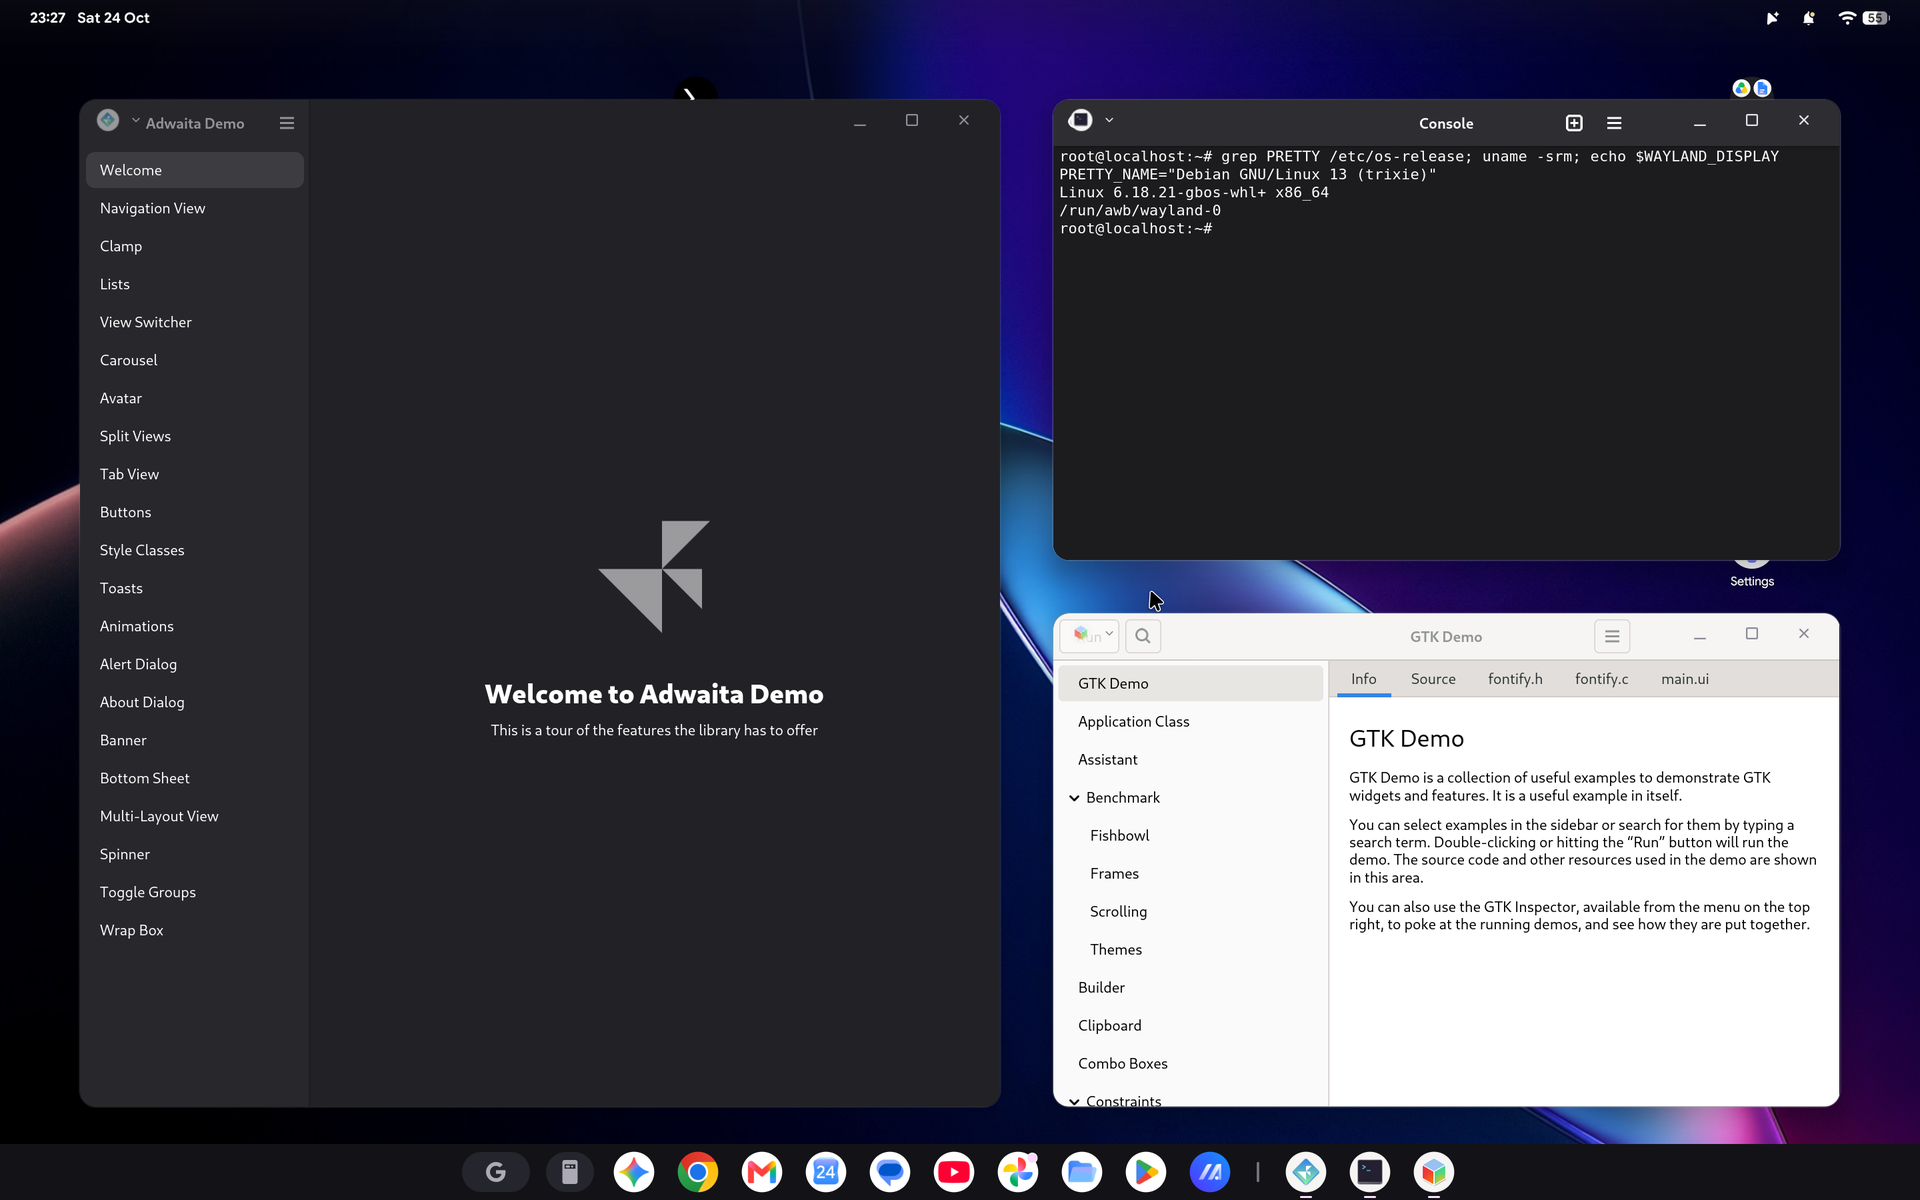
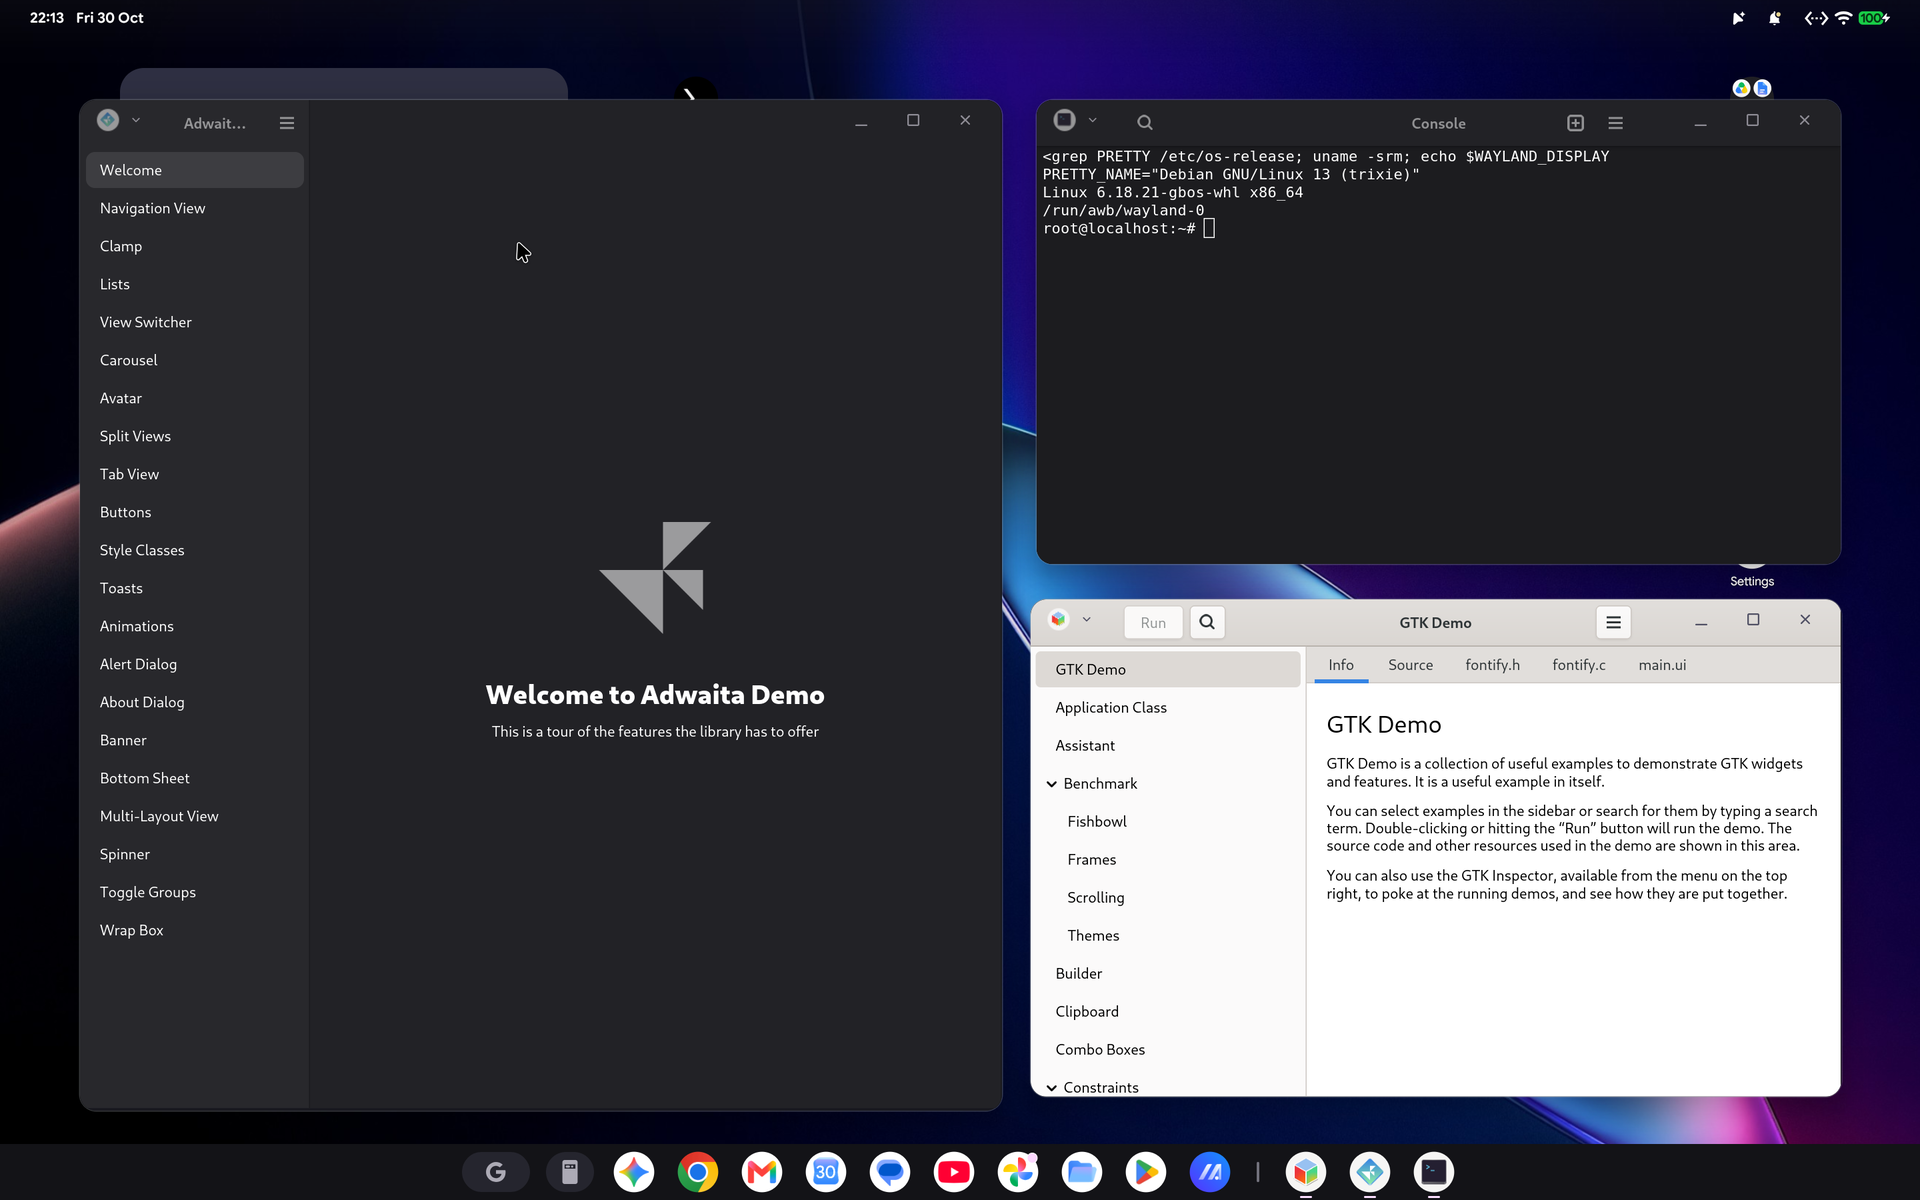
Reserve room for Android's app chip in GTK header bars again
GTK on Wayland reads its button layout from GSettings when GNOME's
schemas are installed, not from settings.ini. Their default,
appmenu:close, left the start window controls empty and hidden, so
gtk.css reserved nothing on the left and header bar content sat under
Android's app chip. awb-run.sh now sets close:close there too, and the
settings portal serves it for sandboxed apps. Retake the README
screenshot.

diff --git a/native/src/portal.rs b/native/src/portal.rs
@@ -2,7 +2,8 @@
 //! is the source of appearance settings. It connects to the chroot's session
 //! bus (a socket in our files dir, /run/awb/bus inside the chroot) and serves
 //! org.freedesktop.portal.Settings there, so GTK and libadwaita follow
-//! Android's dark mode and accent colour, live.
+//! Android's dark mode and accent colour, live, and lay out their window
+//! buttons for Android's caption.
 
 use std::collections::HashMap;
 use std::sync::{Arc, Condvar, Mutex};
@@ -15,6 +16,7 @@ use zbus::zvariant::{OwnedValue, Value};
 const PATH: &str = "/org/freedesktop/portal/desktop";
 const IFACE: &str = "org.freedesktop.portal.Settings";
 const APPEARANCE: &str = "org.freedesktop.appearance";
+const WM_PREFERENCES: &str = "org.gnome.desktop.wm.preferences";
 
 #[derive(Debug, Clone, Copy, PartialEq)]
 pub struct Appearance {
@@ -44,22 +46,25 @@ impl Portal {
     }
 }
 
-/// The settings we publish: namespace -> key -> value.
-fn settings(a: Option<Appearance>) -> Vec<(&'static str, Value<'static>)> {
-    let Some(a) = a else { return Vec::new() };
+/// The settings we publish: (namespace, key, value).
+fn settings(a: Option<Appearance>) -> Vec<(&'static str, &'static str, Value<'static>)> {
+    // Sandboxed GTK (Flatpak) takes its window buttons from here; the rest
+    // from GSettings (set by awb-run.sh). A button on both sides gives each
+    // side a windowcontrols box, whose gtk.css min-width keeps the header
+    // clear of Android's caption controls (see AwbApp.writeGtkCss).
+    let mut v = vec![(WM_PREFERENCES, "button-layout", Value::from("close:close"))];
+    let Some(a) = a else { return v };
     // color-scheme: 0 = no preference, 1 = prefer dark, 2 = prefer light.
-    let mut v = vec![("color-scheme", Value::U32(if a.dark { 1 } else { 2 }))];
+    v.push((APPEARANCE, "color-scheme", Value::U32(if a.dark { 1 } else { 2 })));
     if let Some(rgb) = a.accent {
-        v.push(("accent-color", Value::from(rgb)));
+        v.push((APPEARANCE, "accent-color", Value::from(rgb)));
     }
     v
 }
 
 fn lookup(portal: &Portal, namespace: &str, key: &str) -> Result<OwnedValue, PortalError> {
-    let found = (namespace == APPEARANCE)
-        .then(|| settings(portal.get()).into_iter().find(|(k, _)| *k == key))
-        .flatten();
-    let (_, value) = found.ok_or_else(|| PortalError::NotFound(format!("{namespace}.{key}")))?;
+    let found = settings(portal.get()).into_iter().find(|(n, k, _)| *n == namespace && *k == key);
+    let (_, _, value) = found.ok_or_else(|| PortalError::NotFound(format!("{namespace}.{key}")))?;
     OwnedValue::try_from(value).map_err(|e| PortalError::ZBus(e.into()))
 }
 
@@ -85,13 +90,14 @@ struct Settings(Arc<Portal>);
 #[zbus::interface(name = "org.freedesktop.portal.Settings")]
 impl Settings {
     fn read_all(&self, namespaces: Vec<String>) -> HashMap<String, HashMap<String, OwnedValue>> {
-        let mut out = HashMap::new();
-        if matches(&namespaces, APPEARANCE) {
-            let values = settings(self.0.get())
-                .into_iter()
-                .filter_map(|(k, v)| Some((k.to_string(), OwnedValue::try_from(v).ok()?)))
-                .collect();
-            out.insert(APPEARANCE.to_string(), values);
+        let mut out: HashMap<String, HashMap<String, OwnedValue>> = HashMap::new();
+        for (namespace, key, value) in settings(self.0.get()) {
+            if !matches(&namespaces, namespace) {
+                continue;
+            }
+            if let Ok(value) = OwnedValue::try_from(value) {
+                out.entry(namespace.to_string()).or_default().insert(key.to_string(), value);
+            }
         }
         out
     }
@@ -161,11 +167,11 @@ pub fn run(address: String, portal: Arc<Portal>) {
             }
             let old = settings(published);
             let mut ok = true;
-            for (key, value) in settings(current) {
-                if old.iter().any(|(k, v)| *k == key && *v == value) {
+            for (namespace, key, value) in settings(current) {
+                if old.iter().any(|(n, k, v)| *n == namespace && *k == key && *v == value) {
                     continue;
                 }
-                ok &= conn.emit_signal(None::<()>, PATH, IFACE, "SettingChanged", &(APPEARANCE, key, value)).is_ok();
+                ok &= conn.emit_signal(None::<()>, PATH, IFACE, "SettingChanged", &(namespace, key, value)).is_ok();
             }
             if !ok {
                 break;

diff --git a/docs/DESIGN.md b/docs/DESIGN.md
@@ -582,9 +582,13 @@ the Android side. It bind-mounts that directory into the chroot at
    offsets the surface and pointer by that `top` and configures the client
    that much shorter.
 4. **GTK.** The app writes `files/gtk.css` from those rects.
-   `awb-run.sh` sets `gtk-decoration-layout=close:close` and imports the CSS.
-   A real button is needed on both sides: with `menu:` the start box is
-   hidden and its `min-width` reserves nothing.
+   `awb-run.sh` sets the button layout to `close:close` and imports the CSS.
+   A real button is needed on both sides: with `menu:` (or GNOME's default
+   `appmenu:close`) the start box is empty, hidden, and its `min-width`
+   reserves nothing. GTK on Wayland reads the layout from GSettings
+   (`org.gnome.desktop.wm.preferences button-layout`) whenever that schema
+   is installed, and ignores `settings.ini` then, so `awb-run.sh` sets both;
+   sandboxed GTK reads it from the settings portal, which serves it too.
    GTK's own controls stay in the layout but are invisible and sized to the
    system rects (`windowcontrols.start/end { min-width }`). Libadwaita's split
    header bars therefore leave exactly the right room at the outer edges, and
